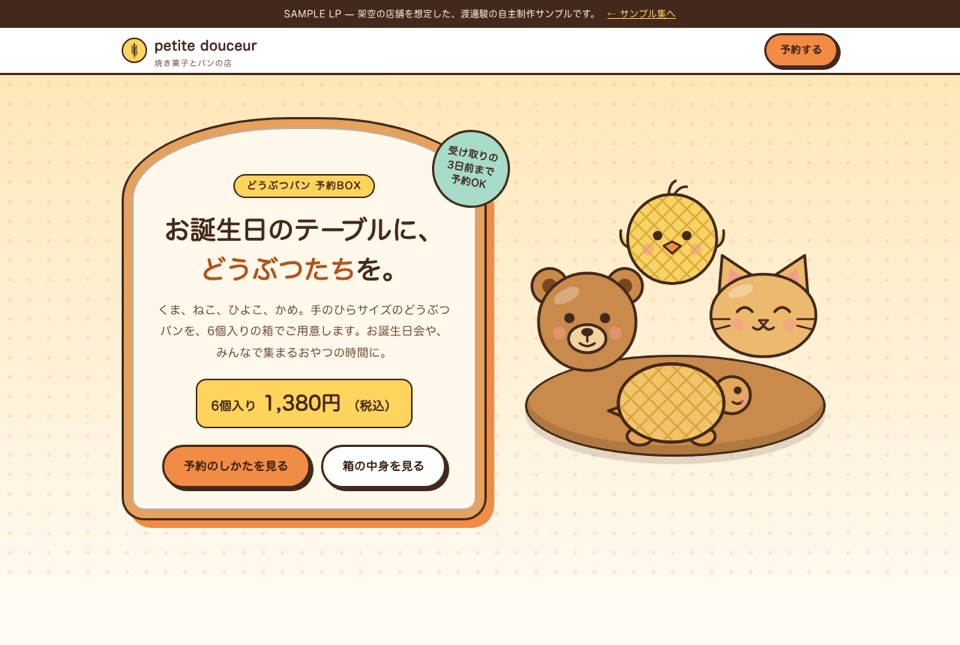
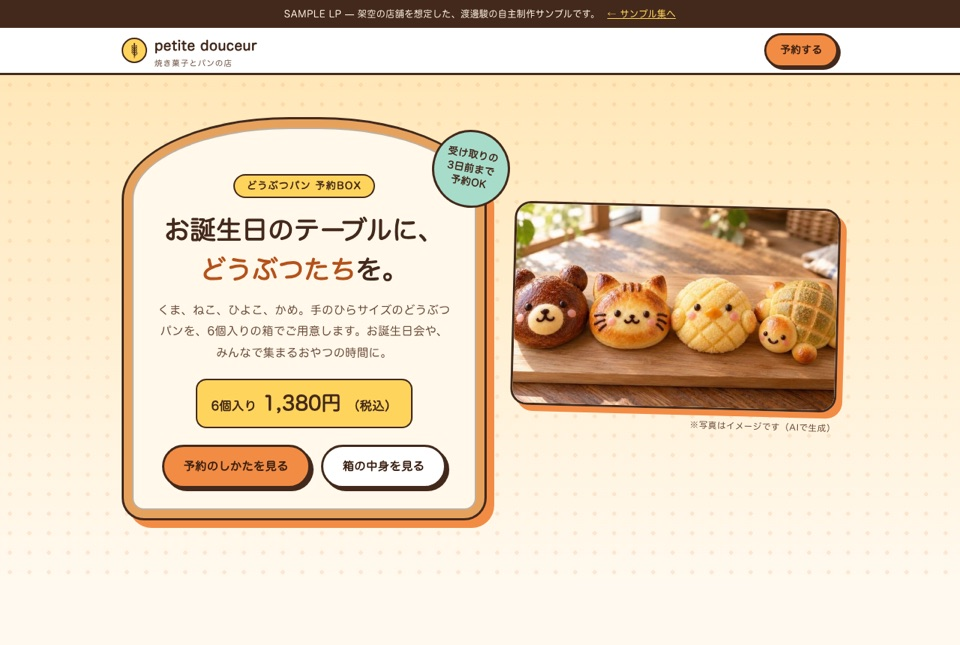
Add files via upload

Changed region(s): [[0.5312, 0.2791, 0.9062, 0.7442]]

diff --git a/samples/bakery.html b/samples/bakery.html
@@ -61,15 +61,11 @@ section.alt::after { bottom: 0; background-image: radial-gradient(circle at 50% 
 .price-chip b { font-size: 26px; letter-spacing: 0.02em; }
 .hero .btn-row { justify-content: center; }
 .sticker { position: absolute; top: 14px; right: -34px; width: 104px; height: 104px; border-radius: 50%; background: var(--mint); border: 3px solid var(--ink); display: grid; place-items: center; text-align: center; font-size: 13px; font-weight: 700; line-height: 1.45; transform: rotate(10deg); }
-.parade { position: relative; aspect-ratio: 1 / 0.92; }
-.parade .plate { position: absolute; left: 4%; right: 4%; bottom: 4%; height: 34%; background: #C98A4B; border: 3px solid var(--ink); border-radius: 50%; box-shadow: inset 0 -12px 0 rgba(0,0,0,.12), 0 10px 0 rgba(67,41,27,.15); }
-.parade svg { position: absolute; width: 46%; animation: hop 3.2s ease-in-out infinite; }
-.parade .a1 { left: 0; top: 26%; }
-.parade .a2 { left: 54%; top: 22%; animation-delay: .4s; }
-.parade .a3 { left: 28%; top: 0; width: 42%; animation-delay: .8s; }
-.parade .a4 { left: 27%; top: 52%; width: 48%; animation-delay: 1.2s; }
-@keyframes hop { 0%, 100% { transform: translateY(0) rotate(0); } 50% { transform: translateY(-8px) rotate(-3deg); } }
-@media (prefers-reduced-motion: reduce) { .parade svg { animation: none; } }
+.hero-photo { margin: 0; transform: rotate(1.5deg); }
+.hero-photo img { width: 100%; aspect-ratio: 16 / 10; object-fit: cover; border: 3px solid var(--ink); border-radius: 22px; box-shadow: 8px 8px 0 var(--accent); }
+.hero-photo figcaption, .box-photo figcaption { font-size: 11.5px; color: var(--ink-soft); text-align: right; margin-top: 10px; }
+.box-photo { margin: 0; }
+.box-photo img { width: 100%; aspect-ratio: 3 / 2; object-fit: cover; border: 3px solid var(--ink); border-radius: 20px; box-shadow: 6px 6px 0 var(--ink); }
 
 /* 悩み */
 .bubbles { display: grid; grid-template-columns: repeat(3, 1fr); gap: 22px; }
@@ -83,14 +79,13 @@ section.alt::after { bottom: 0; background-image: radial-gradient(circle at 50% 
 
 /* 箱の中身 */
 .box-wrap { display: grid; grid-template-columns: 1.15fr 1fr; gap: 40px; align-items: center; }
-.box-art { width: 100%; height: auto; }
 .box-copy h3 { font-size: 22px; line-height: 1.6; margin-bottom: 12px; }
 .box-copy p { color: var(--ink-soft); font-size: 15px; margin-bottom: 12px; }
 .pans { display: grid; grid-template-columns: repeat(4, 1fr); gap: 18px; margin-top: 56px; }
 .pan { background: #fff; border: 3px solid var(--ink); border-radius: 50% 50% 22px 22px / 60px 60px 22px 22px; overflow: hidden; box-shadow: 5px 5px 0 var(--ink); text-align: center; padding-bottom: 18px; }
 .pan-art { background: radial-gradient(circle at 50% 60%, #FFF3D9 0, #FFE2B0 70%); border-bottom: 2px solid var(--ink); padding: 20px 16px 10px; margin-bottom: 14px; }
-.pan-art svg { width: 82%; margin: 0 auto; transition: transform .25s; }
-.pan:hover .pan-art svg { transform: rotate(-6deg) scale(1.04); }
+.pan-art img { width: 82%; aspect-ratio: 1 / 1; border-radius: 50%; object-fit: cover; border: 2px solid var(--ink); background: #fff; margin: 0 auto; transition: transform .25s; }
+.pan:hover .pan-art img { transform: rotate(-6deg) scale(1.04); }
 .pan h3 { font-size: 16px; padding: 0 12px; word-break: keep-all; }
 .pan p { font-size: 13px; color: var(--ink-soft); padding: 4px 14px 0; line-height: 1.75; }
 .note { font-size: 12.5px; color: var(--ink-soft); text-align: center; margin-top: 22px; }
@@ -127,7 +122,8 @@ section.alt::after { bottom: 0; background-image: radial-gradient(circle at 50% 
 /* お客様の声 */
 .voices { display: grid; grid-template-columns: repeat(2, 1fr); gap: 26px; }
 .voice { display: grid; grid-template-columns: 74px 1fr; gap: 16px; align-items: start; }
-.voice .face { width: 74px; height: 74px; border-radius: 50%; background: #FFE2B0; border: 3px solid var(--ink); padding: 6px; }
+.voice .face { width: 74px; height: 74px; border-radius: 50%; background: #fff; border: 3px solid var(--ink); overflow: hidden; }
+.voice .face img { width: 100%; height: 100%; object-fit: cover; }
 .voice .say { background: #fff; border: 3px solid var(--ink); border-radius: 22px; padding: 18px 20px; font-size: 14.5px; box-shadow: 4px 4px 0 var(--ink); }
 .voice .who { display: block; margin-top: 8px; font-size: 12.5px; color: var(--ink-soft); }
 
@@ -170,7 +166,7 @@ footer b { display: block; font-size: 17px; margin-bottom: 6px; color: #fff; }
 
 @media (max-width: 860px) {
   .hero .wrap, .box-wrap, .shop { grid-template-columns: 1fr; }
-  .parade { max-width: 420px; width: 100%; margin: 0 auto; }
+  .hero-photo { max-width: 520px; width: 100%; margin: 0 auto; }
   .pans { grid-template-columns: repeat(2, 1fr); }
   .bubbles, .points, .flow, .voices, .prices { grid-template-columns: 1fr; }
   .bubble:nth-child(2) { transform: none; }
@@ -234,10 +230,10 @@ footer b { display: block; font-size: 17px; margin-bottom: 6px; color: #fff; }
       <a class="btn white" href="#box">箱の中身を見る</a>
     </div>
   </div>
-  <div class="parade" aria-hidden="true">
-    <div class="plate"></div>
-    <svg class="a3" viewBox="0 0 160 140" role="img" aria-label="ひよこの形のメロンパンのイラスト" stroke="#43291B" stroke-width="3" stroke-linecap="round" stroke-linejoin="round"><defs><clipPath id="clip-chick-13"><circle cx="80" cy="82" r="52"/></clipPath></defs><path d="M76 32q0-14 8-18M82 31q6-11 15-10" fill="none"/><path d="M30 92q-12-4-10-20M130 92q12-4 10-20" fill="#F7D364"/><circle cx="80" cy="82" r="52" fill="#F7D364"/><g clip-path="url(#clip-chick-13)" stroke="#D49A2E" stroke-width="2" fill="none" opacity=".75"><path d="M-120 20L10 150M10 20L-120 150"/><path d="M-101 20L29 150M29 20L-101 150"/><path d="M-82 20L48 150M48 20L-82 150"/><path d="M-63 20L67 150M67 20L-63 150"/><path d="M-44 20L86 150M86 20L-44 150"/><path d="M-25 20L105 150M105 20L-25 150"/><path d="M-6 20L124 150M124 20L-6 150"/><path d="M13 20L143 150M143 20L13 150"/><path d="M32 20L162 150M162 20L32 150"/><path d="M51 20L181 150M181 20L51 150"/><path d="M70 20L200 150M200 20L70 150"/><path d="M89 20L219 150M219 20L89 150"/><path d="M108 20L238 150M238 20L108 150"/><path d="M127 20L257 150M257 20L127 150"/><path d="M146 20L276 150M276 20L146 150"/><path d="M165 20L295 150M295 20L165 150"/></g><circle cx="80" cy="82" r="52" fill="none"/><circle cx="63" cy="78" r="5.5" fill="#43291B" stroke="none"/><circle cx="97" cy="78" r="5.5" fill="#43291B" stroke="none"/><path d="M70 90L80 85L90 90L80 99Z" fill="#F28C45" stroke-width="2.5"/><circle cx="52" cy="94" r="7" fill="#F29C8A" opacity=".55" stroke="none"/><circle cx="108" cy="94" r="7" fill="#F29C8A" opacity=".55" stroke="none"/></svg><svg class="a1" viewBox="0 0 160 140" role="img" aria-label="くまの形のパンのイラスト" stroke="#43291B" stroke-width="3" stroke-linecap="round" stroke-linejoin="round"><circle cx="40" cy="42" r="19" fill="#C98A4B"/><circle cx="120" cy="42" r="19" fill="#C98A4B"/><circle cx="40" cy="42" r="8" fill="#7A4520" stroke="none"/><circle cx="120" cy="42" r="8" fill="#7A4520" stroke="none"/><circle cx="80" cy="80" r="52" fill="#C98A4B"/><ellipse cx="58" cy="52" rx="15" ry="7" fill="#fff" opacity=".28" stroke="none" transform="rotate(-28 58 52)"/><circle cx="61" cy="76" r="5.5" fill="#43291B" stroke="none"/><circle cx="99" cy="76" r="5.5" fill="#43291B" stroke="none"/><ellipse cx="80" cy="98" rx="20" ry="15" fill="#F3D3A0"/><ellipse cx="80" cy="91" rx="6.5" ry="4.5" fill="#43291B" stroke="none"/><path d="M80 95v6M72 103q8 6 16 0" fill="none" stroke-width="2.5"/><circle cx="50" cy="92" r="7" fill="#F29C8A" opacity=".55" stroke="none"/><circle cx="110" cy="92" r="7" fill="#F29C8A" opacity=".55" stroke="none"/></svg><svg class="a2" viewBox="0 0 160 140" role="img" aria-label="ねこの形のパンのイラスト" stroke="#43291B" stroke-width="3" stroke-linecap="round" stroke-linejoin="round"><path d="M32 70L36 22L72 46Z" fill="#EDB96F"/><path d="M128 70L124 22L88 46Z" fill="#EDB96F"/><path d="M42 54L44 36L60 47Z" fill="#F29C8A" stroke="none"/><path d="M118 54L116 36L100 47Z" fill="#F29C8A" stroke="none"/><ellipse cx="80" cy="86" rx="56" ry="44" fill="#EDB96F"/><ellipse cx="56" cy="60" rx="14" ry="6" fill="#fff" opacity=".3" stroke="none" transform="rotate(-20 56 60)"/><path d="M52 82q8-9 16 0M92 82q8-9 16 0" fill="none"/><path d="M75 91h10l-5 6z" fill="#E07A6A" stroke-width="2"/><path d="M80 97q-5 7-11 2M80 97q5 7 11 2" fill="none" stroke-width="2.5"/><path d="M26 90h18M28 101l16-4M134 90h-18M132 101l-16-4" stroke-width="2"/><circle cx="52" cy="96" r="7" fill="#F29C8A" opacity=".55" stroke="none"/><circle cx="108" cy="96" r="7" fill="#F29C8A" opacity=".55" stroke="none"/></svg><svg class="a4" viewBox="0 0 160 140" role="img" aria-label="かめの形のメロンパンのイラスト" stroke="#43291B" stroke-width="3" stroke-linecap="round" stroke-linejoin="round"><defs><clipPath id="clip-turtle-14"><ellipse cx="72" cy="80" rx="54" ry="40"/></clipPath></defs><ellipse cx="40" cy="114" rx="13" ry="9" fill="#E3A85A"/><ellipse cx="104" cy="114" rx="13" ry="9" fill="#E3A85A"/><path d="M20 84l-12 4 12 5" fill="#E3A85A"/><circle cx="134" cy="72" r="19" fill="#E3A85A"/><ellipse cx="72" cy="80" rx="54" ry="40" fill="#F2C46B"/><g clip-path="url(#clip-turtle-14)" stroke="#D49A2E" stroke-width="2" fill="none" opacity=".75"><path d="M-120 20L10 150M10 20L-120 150"/><path d="M-101 20L29 150M29 20L-101 150"/><path d="M-82 20L48 150M48 20L-82 150"/><path d="M-63 20L67 150M67 20L-63 150"/><path d="M-44 20L86 150M86 20L-44 150"/><path d="M-25 20L105 150M105 20L-25 150"/><path d="M-6 20L124 150M124 20L-6 150"/><path d="M13 20L143 150M143 20L13 150"/><path d="M32 20L162 150M162 20L32 150"/><path d="M51 20L181 150M181 20L51 150"/><path d="M70 20L200 150M200 20L70 150"/><path d="M89 20L219 150M219 20L89 150"/><path d="M108 20L238 150M238 20L108 150"/><path d="M127 20L257 150M257 20L127 150"/><path d="M146 20L276 150M276 20L146 150"/><path d="M165 20L295 150M295 20L165 150"/></g><ellipse cx="72" cy="80" rx="54" ry="40" fill="none"/><circle cx="140" cy="67" r="4" fill="#43291B" stroke="none"/><path d="M135 79q5 4 10-1" fill="none" stroke-width="2.5"/><circle cx="146" cy="76" r="4.5" fill="#F29C8A" opacity=".55" stroke="none"/></svg>
-  </div>
+  <figure class="hero-photo">
+    <img src="img/pan-four.jpg" srcset="img/pan-four-sm.jpg 700w, img/pan-four.jpg 1400w" sizes="(max-width: 860px) 92vw, 46vw" alt="木の板に並んだ、くま・ねこ・ひよこ・かめの形のパン">
+    <figcaption>※写真はイメージです（AIで生成）</figcaption>
+  </figure>
 </div></section>
 
 <section><div class="wrap">
@@ -253,15 +249,15 @@ footer b { display: block; font-size: 17px; margin-bottom: 6px; color: #fff; }
 <section class="alt" id="box"><div class="wrap">
   <div class="head"><span class="tag">箱の中身</span><h2><span class="nb">ふたを開けたら、</span><span class="nb">まず「どれにする？」から。</span></h2></div>
   <div class="box-wrap">
-    <svg class="box-art" viewBox="0 0 560 360" role="img" aria-label="どうぶつパンが6個入った箱を、上から見たイラスト"><rect x="14" y="26" width="532" height="320" rx="26" fill="#E6B474" stroke="#43291B" stroke-width="4"/><rect x="30" y="42" width="500" height="288" rx="18" fill="#F3D3A0" stroke="#B9844A" stroke-width="2"/><rect x="40" y="52" width="160" height="140" rx="16" fill="#FFF6E2" stroke="#C99A5E" stroke-width="2"/><svg x="45" y="56" width="150" height="131" viewBox="0 0 160 140" role="img" aria-label="くまの形のパンのイラスト" stroke="#43291B" stroke-width="3" stroke-linecap="round" stroke-linejoin="round"><circle cx="40" cy="42" r="19" fill="#C98A4B"/><circle cx="120" cy="42" r="19" fill="#C98A4B"/><circle cx="40" cy="42" r="8" fill="#7A4520" stroke="none"/><circle cx="120" cy="42" r="8" fill="#7A4520" stroke="none"/><circle cx="80" cy="80" r="52" fill="#C98A4B"/><ellipse cx="58" cy="52" rx="15" ry="7" fill="#fff" opacity=".28" stroke="none" transform="rotate(-28 58 52)"/><circle cx="61" cy="76" r="5.5" fill="#43291B" stroke="none"/><circle cx="99" cy="76" r="5.5" fill="#43291B" stroke="none"/><ellipse cx="80" cy="98" rx="20" ry="15" fill="#F3D3A0"/><ellipse cx="80" cy="91" rx="6.5" ry="4.5" fill="#43291B" stroke="none"/><path d="M80 95v6M72 103q8 6 16 0" fill="none" stroke-width="2.5"/><circle cx="50" cy="92" r="7" fill="#F29C8A" opacity=".55" stroke="none"/><circle cx="110" cy="92" r="7" fill="#F29C8A" opacity=".55" stroke="none"/></svg><rect x="200" y="52" width="160" height="140" rx="16" fill="#FFF6E2" stroke="#C99A5E" stroke-width="2"/><svg x="205" y="56" width="150" height="131" viewBox="0 0 160 140" role="img" aria-label="ひよこの形のメロンパンのイラスト" stroke="#43291B" stroke-width="3" stroke-linecap="round" stroke-linejoin="round"><defs><clipPath id="clip-chick-2"><circle cx="80" cy="82" r="52"/></clipPath></defs><path d="M76 32q0-14 8-18M82 31q6-11 15-10" fill="none"/><path d="M30 92q-12-4-10-20M130 92q12-4 10-20" fill="#F7D364"/><circle cx="80" cy="82" r="52" fill="#F7D364"/><g clip-path="url(#clip-chick-2)" stroke="#D49A2E" stroke-width="2" fill="none" opacity=".75"><path d="M-120 20L10 150M10 20L-120 150"/><path d="M-101 20L29 150M29 20L-101 150"/><path d="M-82 20L48 150M48 20L-82 150"/><path d="M-63 20L67 150M67 20L-63 150"/><path d="M-44 20L86 150M86 20L-44 150"/><path d="M-25 20L105 150M105 20L-25 150"/><path d="M-6 20L124 150M124 20L-6 150"/><path d="M13 20L143 150M143 20L13 150"/><path d="M32 20L162 150M162 20L32 150"/><path d="M51 20L181 150M181 20L51 150"/><path d="M70 20L200 150M200 20L70 150"/><path d="M89 20L219 150M219 20L89 150"/><path d="M108 20L238 150M238 20L108 150"/><path d="M127 20L257 150M257 20L127 150"/><path d="M146 20L276 150M276 20L146 150"/><path d="M165 20L295 150M295 20L165 150"/></g><circle cx="80" cy="82" r="52" fill="none"/><circle cx="63" cy="78" r="5.5" fill="#43291B" stroke="none"/><circle cx="97" cy="78" r="5.5" fill="#43291B" stroke="none"/><path d="M70 90L80 85L90 90L80 99Z" fill="#F28C45" stroke-width="2.5"/><circle cx="52" cy="94" r="7" fill="#F29C8A" opacity=".55" stroke="none"/><circle cx="108" cy="94" r="7" fill="#F29C8A" opacity=".55" stroke="none"/></svg><rect x="360" y="52" width="160" height="140" rx="16" fill="#FFF6E2" stroke="#C99A5E" stroke-width="2"/><svg x="365" y="56" width="150" height="131" viewBox="0 0 160 140" role="img" aria-label="ねこの形のパンのイラスト" stroke="#43291B" stroke-width="3" stroke-linecap="round" stroke-linejoin="round"><path d="M32 70L36 22L72 46Z" fill="#EDB96F"/><path d="M128 70L124 22L88 46Z" fill="#EDB96F"/><path d="M42 54L44 36L60 47Z" fill="#F29C8A" stroke="none"/><path d="M118 54L116 36L100 47Z" fill="#F29C8A" stroke="none"/><ellipse cx="80" cy="86" rx="56" ry="44" fill="#EDB96F"/><ellipse cx="56" cy="60" rx="14" ry="6" fill="#fff" opacity=".3" stroke="none" transform="rotate(-20 56 60)"/><path d="M52 82q8-9 16 0M92 82q8-9 16 0" fill="none"/><path d="M75 91h10l-5 6z" fill="#E07A6A" stroke-width="2"/><path d="M80 97q-5 7-11 2M80 97q5 7 11 2" fill="none" stroke-width="2.5"/><path d="M26 90h18M28 101l16-4M134 90h-18M132 101l-16-4" stroke-width="2"/><circle cx="52" cy="96" r="7" fill="#F29C8A" opacity=".55" stroke="none"/><circle cx="108" cy="96" r="7" fill="#F29C8A" opacity=".55" stroke="none"/></svg><rect x="40" y="192" width="160" height="140" rx="16" fill="#FFF6E2" stroke="#C99A5E" stroke-width="2"/><svg x="45" y="196" width="150" height="131" viewBox="0 0 160 140" role="img" aria-label="かめの形のメロンパンのイラスト" stroke="#43291B" stroke-width="3" stroke-linecap="round" stroke-linejoin="round"><defs><clipPath id="clip-turtle-4"><ellipse cx="72" cy="80" rx="54" ry="40"/></clipPath></defs><ellipse cx="40" cy="114" rx="13" ry="9" fill="#E3A85A"/><ellipse cx="104" cy="114" rx="13" ry="9" fill="#E3A85A"/><path d="M20 84l-12 4 12 5" fill="#E3A85A"/><circle cx="134" cy="72" r="19" fill="#E3A85A"/><ellipse cx="72" cy="80" rx="54" ry="40" fill="#F2C46B"/><g clip-path="url(#clip-turtle-4)" stroke="#D49A2E" stroke-width="2" fill="none" opacity=".75"><path d="M-120 20L10 150M10 20L-120 150"/><path d="M-101 20L29 150M29 20L-101 150"/><path d="M-82 20L48 150M48 20L-82 150"/><path d="M-63 20L67 150M67 20L-63 150"/><path d="M-44 20L86 150M86 20L-44 150"/><path d="M-25 20L105 150M105 20L-25 150"/><path d="M-6 20L124 150M124 20L-6 150"/><path d="M13 20L143 150M143 20L13 150"/><path d="M32 20L162 150M162 20L32 150"/><path d="M51 20L181 150M181 20L51 150"/><path d="M70 20L200 150M200 20L70 150"/><path d="M89 20L219 150M219 20L89 150"/><path d="M108 20L238 150M238 20L108 150"/><path d="M127 20L257 150M257 20L127 150"/><path d="M146 20L276 150M276 20L146 150"/><path d="M165 20L295 150M295 20L165 150"/></g><ellipse cx="72" cy="80" rx="54" ry="40" fill="none"/><circle cx="140" cy="67" r="4" fill="#43291B" stroke="none"/><path d="M135 79q5 4 10-1" fill="none" stroke-width="2.5"/><circle cx="146" cy="76" r="4.5" fill="#F29C8A" opacity=".55" stroke="none"/></svg><rect x="200" y="192" width="160" height="140" rx="16" fill="#FFF6E2" stroke="#C99A5E" stroke-width="2"/><svg x="205" y="196" width="150" height="131" viewBox="0 0 160 140" role="img" aria-label="くまの形のパンのイラスト" stroke="#43291B" stroke-width="3" stroke-linecap="round" stroke-linejoin="round"><circle cx="40" cy="42" r="19" fill="#C98A4B"/><circle cx="120" cy="42" r="19" fill="#C98A4B"/><circle cx="40" cy="42" r="8" fill="#7A4520" stroke="none"/><circle cx="120" cy="42" r="8" fill="#7A4520" stroke="none"/><circle cx="80" cy="80" r="52" fill="#C98A4B"/><ellipse cx="58" cy="52" rx="15" ry="7" fill="#fff" opacity=".28" stroke="none" transform="rotate(-28 58 52)"/><circle cx="61" cy="76" r="5.5" fill="#43291B" stroke="none"/><circle cx="99" cy="76" r="5.5" fill="#43291B" stroke="none"/><ellipse cx="80" cy="98" rx="20" ry="15" fill="#F3D3A0"/><ellipse cx="80" cy="91" rx="6.5" ry="4.5" fill="#43291B" stroke="none"/><path d="M80 95v6M72 103q8 6 16 0" fill="none" stroke-width="2.5"/><circle cx="50" cy="92" r="7" fill="#F29C8A" opacity=".55" stroke="none"/><circle cx="110" cy="92" r="7" fill="#F29C8A" opacity=".55" stroke="none"/></svg><rect x="360" y="192" width="160" height="140" rx="16" fill="#FFF6E2" stroke="#C99A5E" stroke-width="2"/><svg x="365" y="196" width="150" height="131" viewBox="0 0 160 140" role="img" aria-label="ひよこの形のメロンパンのイラスト" stroke="#43291B" stroke-width="3" stroke-linecap="round" stroke-linejoin="round"><defs><clipPath id="clip-chick-6"><circle cx="80" cy="82" r="52"/></clipPath></defs><path d="M76 32q0-14 8-18M82 31q6-11 15-10" fill="none"/><path d="M30 92q-12-4-10-20M130 92q12-4 10-20" fill="#F7D364"/><circle cx="80" cy="82" r="52" fill="#F7D364"/><g clip-path="url(#clip-chick-6)" stroke="#D49A2E" stroke-width="2" fill="none" opacity=".75"><path d="M-120 20L10 150M10 20L-120 150"/><path d="M-101 20L29 150M29 20L-101 150"/><path d="M-82 20L48 150M48 20L-82 150"/><path d="M-63 20L67 150M67 20L-63 150"/><path d="M-44 20L86 150M86 20L-44 150"/><path d="M-25 20L105 150M105 20L-25 150"/><path d="M-6 20L124 150M124 20L-6 150"/><path d="M13 20L143 150M143 20L13 150"/><path d="M32 20L162 150M162 20L32 150"/><path d="M51 20L181 150M181 20L51 150"/><path d="M70 20L200 150M200 20L70 150"/><path d="M89 20L219 150M219 20L89 150"/><path d="M108 20L238 150M238 20L108 150"/><path d="M127 20L257 150M257 20L127 150"/><path d="M146 20L276 150M276 20L146 150"/><path d="M165 20L295 150M295 20L165 150"/></g><circle cx="80" cy="82" r="52" fill="none"/><circle cx="63" cy="78" r="5.5" fill="#43291B" stroke="none"/><circle cx="97" cy="78" r="5.5" fill="#43291B" stroke="none"/><path d="M70 90L80 85L90 90L80 99Z" fill="#F28C45" stroke-width="2.5"/><circle cx="52" cy="94" r="7" fill="#F29C8A" opacity=".55" stroke="none"/><circle cx="108" cy="94" r="7" fill="#F29C8A" opacity=".55" stroke="none"/></svg><g transform="translate(400 6) rotate(8)"><rect width="140" height="44" rx="22" fill="#F28C45" stroke="#43291B" stroke-width="3"/><text x="70" y="29" text-anchor="middle" font-size="18" font-weight="700" fill="#3A1F10" font-family="Hiragino Maru Gothic ProN, sans-serif">6個入り</text></g></svg>
+    <figure class="box-photo"><img src="img/pan-box.jpg" alt="どうぶつパンが6個入った、クラフト紙の箱" loading="lazy"></figure>
     <div class="box-copy">
       <h3><span class="nb">4種類から、</span><span class="nb">好きな組み合わせで6個。</span></h3>
       <p>くまを多めに、ひよこを全員分に。集まる子どもたちに合わせて、組み合わせを選べます。</p>
       <p>ひとり1個ずつ手に取れる大きさなので、切り分けもお皿も要りません。決めきれないときは、お店でバランスよく詰めます。</p>
     </div>
   </div>
-  <div class="pans"><div class="pan"><div class="pan-art"><svg viewBox="0 0 160 140" role="img" aria-label="くまの形のパンのイラスト" stroke="#43291B" stroke-width="3" stroke-linecap="round" stroke-linejoin="round"><circle cx="40" cy="42" r="19" fill="#C98A4B"/><circle cx="120" cy="42" r="19" fill="#C98A4B"/><circle cx="40" cy="42" r="8" fill="#7A4520" stroke="none"/><circle cx="120" cy="42" r="8" fill="#7A4520" stroke="none"/><circle cx="80" cy="80" r="52" fill="#C98A4B"/><ellipse cx="58" cy="52" rx="15" ry="7" fill="#fff" opacity=".28" stroke="none" transform="rotate(-28 58 52)"/><circle cx="61" cy="76" r="5.5" fill="#43291B" stroke="none"/><circle cx="99" cy="76" r="5.5" fill="#43291B" stroke="none"/><ellipse cx="80" cy="98" rx="20" ry="15" fill="#F3D3A0"/><ellipse cx="80" cy="91" rx="6.5" ry="4.5" fill="#43291B" stroke="none"/><path d="M80 95v6M72 103q8 6 16 0" fill="none" stroke-width="2.5"/><circle cx="50" cy="92" r="7" fill="#F29C8A" opacity=".55" stroke="none"/><circle cx="110" cy="92" r="7" fill="#F29C8A" opacity=".55" stroke="none"/></svg></div><h3>くまの<wbr>チョコパン</h3><p>ほんのりビターなチョコクリーム。耳はチョコ生地で焼き分けています。</p></div><div class="pan"><div class="pan-art"><svg viewBox="0 0 160 140" role="img" aria-label="ねこの形のパンのイラスト" stroke="#43291B" stroke-width="3" stroke-linecap="round" stroke-linejoin="round"><path d="M32 70L36 22L72 46Z" fill="#EDB96F"/><path d="M128 70L124 22L88 46Z" fill="#EDB96F"/><path d="M42 54L44 36L60 47Z" fill="#F29C8A" stroke="none"/><path d="M118 54L116 36L100 47Z" fill="#F29C8A" stroke="none"/><ellipse cx="80" cy="86" rx="56" ry="44" fill="#EDB96F"/><ellipse cx="56" cy="60" rx="14" ry="6" fill="#fff" opacity=".3" stroke="none" transform="rotate(-20 56 60)"/><path d="M52 82q8-9 16 0M92 82q8-9 16 0" fill="none"/><path d="M75 91h10l-5 6z" fill="#E07A6A" stroke-width="2"/><path d="M80 97q-5 7-11 2M80 97q5 7 11 2" fill="none" stroke-width="2.5"/><path d="M26 90h18M28 101l16-4M134 90h-18M132 101l-16-4" stroke-width="2"/><circle cx="52" cy="96" r="7" fill="#F29C8A" opacity=".55" stroke="none"/><circle cx="108" cy="96" r="7" fill="#F29C8A" opacity=".55" stroke="none"/></svg></div><h3>ねこの<wbr>カスタードパン</h3><p>たまごたっぷりの、自家製カスタード入り。</p></div><div class="pan"><div class="pan-art"><svg viewBox="0 0 160 140" role="img" aria-label="ひよこの形のメロンパンのイラスト" stroke="#43291B" stroke-width="3" stroke-linecap="round" stroke-linejoin="round"><defs><clipPath id="clip-chick-9"><circle cx="80" cy="82" r="52"/></clipPath></defs><path d="M76 32q0-14 8-18M82 31q6-11 15-10" fill="none"/><path d="M30 92q-12-4-10-20M130 92q12-4 10-20" fill="#F7D364"/><circle cx="80" cy="82" r="52" fill="#F7D364"/><g clip-path="url(#clip-chick-9)" stroke="#D49A2E" stroke-width="2" fill="none" opacity=".75"><path d="M-120 20L10 150M10 20L-120 150"/><path d="M-101 20L29 150M29 20L-101 150"/><path d="M-82 20L48 150M48 20L-82 150"/><path d="M-63 20L67 150M67 20L-63 150"/><path d="M-44 20L86 150M86 20L-44 150"/><path d="M-25 20L105 150M105 20L-25 150"/><path d="M-6 20L124 150M124 20L-6 150"/><path d="M13 20L143 150M143 20L13 150"/><path d="M32 20L162 150M162 20L32 150"/><path d="M51 20L181 150M181 20L51 150"/><path d="M70 20L200 150M200 20L70 150"/><path d="M89 20L219 150M219 20L89 150"/><path d="M108 20L238 150M238 20L108 150"/><path d="M127 20L257 150M257 20L127 150"/><path d="M146 20L276 150M276 20L146 150"/><path d="M165 20L295 150M295 20L165 150"/></g><circle cx="80" cy="82" r="52" fill="none"/><circle cx="63" cy="78" r="5.5" fill="#43291B" stroke="none"/><circle cx="97" cy="78" r="5.5" fill="#43291B" stroke="none"/><path d="M70 90L80 85L90 90L80 99Z" fill="#F28C45" stroke-width="2.5"/><circle cx="52" cy="94" r="7" fill="#F29C8A" opacity=".55" stroke="none"/><circle cx="108" cy="94" r="7" fill="#F29C8A" opacity=".55" stroke="none"/></svg></div><h3>ひよこの<wbr>メロンパン</h3><p>さくさくのクッキー生地に、小さなくちばし。</p></div><div class="pan"><div class="pan-art"><svg viewBox="0 0 160 140" role="img" aria-label="かめの形のメロンパンのイラスト" stroke="#43291B" stroke-width="3" stroke-linecap="round" stroke-linejoin="round"><defs><clipPath id="clip-turtle-10"><ellipse cx="72" cy="80" rx="54" ry="40"/></clipPath></defs><ellipse cx="40" cy="114" rx="13" ry="9" fill="#E3A85A"/><ellipse cx="104" cy="114" rx="13" ry="9" fill="#E3A85A"/><path d="M20 84l-12 4 12 5" fill="#E3A85A"/><circle cx="134" cy="72" r="19" fill="#E3A85A"/><ellipse cx="72" cy="80" rx="54" ry="40" fill="#F2C46B"/><g clip-path="url(#clip-turtle-10)" stroke="#D49A2E" stroke-width="2" fill="none" opacity=".75"><path d="M-120 20L10 150M10 20L-120 150"/><path d="M-101 20L29 150M29 20L-101 150"/><path d="M-82 20L48 150M48 20L-82 150"/><path d="M-63 20L67 150M67 20L-63 150"/><path d="M-44 20L86 150M86 20L-44 150"/><path d="M-25 20L105 150M105 20L-25 150"/><path d="M-6 20L124 150M124 20L-6 150"/><path d="M13 20L143 150M143 20L13 150"/><path d="M32 20L162 150M162 20L32 150"/><path d="M51 20L181 150M181 20L51 150"/><path d="M70 20L200 150M200 20L70 150"/><path d="M89 20L219 150M219 20L89 150"/><path d="M108 20L238 150M238 20L108 150"/><path d="M127 20L257 150M257 20L127 150"/><path d="M146 20L276 150M276 20L146 150"/><path d="M165 20L295 150M295 20L165 150"/></g><ellipse cx="72" cy="80" rx="54" ry="40" fill="none"/><circle cx="140" cy="67" r="4" fill="#43291B" stroke="none"/><path d="M135 79q5 4 10-1" fill="none" stroke-width="2.5"/><circle cx="146" cy="76" r="4.5" fill="#F29C8A" opacity=".55" stroke="none"/></svg></div><h3>かめの<wbr>メロンパン</h3><p>甲羅がメロンパン。頭と足は、ふんわりのパン生地です。</p></div></div>
-  <p class="note">※イラストはイメージです。ひとつずつ手で描くため、表情が少しずつ違います。</p>
+  <div class="pans"><div class="pan"><div class="pan-art"><img src="img/pan-bear.jpg" alt="くまのチョコパンの写真" loading="lazy"></div><h3>くまの<wbr>チョコパン</h3><p>ほんのりビターなチョコクリーム。耳はチョコ生地で焼き分けています。</p></div><div class="pan"><div class="pan-art"><img src="img/pan-cat.jpg" alt="ねこのカスタードパンの写真" loading="lazy"></div><h3>ねこの<wbr>カスタードパン</h3><p>たまごたっぷりの、自家製カスタード入り。</p></div><div class="pan"><div class="pan-art"><img src="img/pan-chick.jpg" alt="ひよこのメロンパンの写真" loading="lazy"></div><h3>ひよこの<wbr>メロンパン</h3><p>さくさくのクッキー生地に、小さなくちばし。</p></div><div class="pan"><div class="pan-art"><img src="img/pan-turtle.jpg" alt="かめのメロンパンの写真" loading="lazy"></div><h3>かめの<wbr>メロンパン</h3><p>甲羅がメロンパン。頭と足は、ふんわりのパン生地です。</p></div></div>
+  <p class="note">※写真はイメージです（AIで生成）。ひとつずつ手で描くため、表情が少しずつ違います。</p>
 </div></section>
 
 <div class="cta-strip"><div class="wrap"><p><span class="nb">ご予約は、</span><span class="nb">受け取り日の3日前の17時まで。</span></p><a class="btn white" href="#reserve">予約のしかたを見る</a></div></div>
@@ -296,8 +292,8 @@ footer b { display: block; font-size: 17px; margin-bottom: 6px; color: #fff; }
 <section class="alt"><div class="wrap">
   <div class="head"><span class="tag">お客様の声</span><h2>ご利用いただいた方より</h2></div>
   <div class="voices">
-    <div class="voice"><div class="face"><svg viewBox="0 0 160 140" role="img" aria-label="ねこの形のパンのイラスト" stroke="#43291B" stroke-width="3" stroke-linecap="round" stroke-linejoin="round"><path d="M32 70L36 22L72 46Z" fill="#EDB96F"/><path d="M128 70L124 22L88 46Z" fill="#EDB96F"/><path d="M42 54L44 36L60 47Z" fill="#F29C8A" stroke="none"/><path d="M118 54L116 36L100 47Z" fill="#F29C8A" stroke="none"/><ellipse cx="80" cy="86" rx="56" ry="44" fill="#EDB96F"/><ellipse cx="56" cy="60" rx="14" ry="6" fill="#fff" opacity=".3" stroke="none" transform="rotate(-20 56 60)"/><path d="M52 82q8-9 16 0M92 82q8-9 16 0" fill="none"/><path d="M75 91h10l-5 6z" fill="#E07A6A" stroke-width="2"/><path d="M80 97q-5 7-11 2M80 97q5 7 11 2" fill="none" stroke-width="2.5"/><path d="M26 90h18M28 101l16-4M134 90h-18M132 101l-16-4" stroke-width="2"/><circle cx="52" cy="96" r="7" fill="#F29C8A" opacity=".55" stroke="none"/><circle cx="108" cy="96" r="7" fill="#F29C8A" opacity=".55" stroke="none"/></svg></div><p class="say">娘の4歳の誕生日に頼みました。箱を開けたとたん、子どもたちが「ひよこがいい！」と集まってきて、にぎやかな時間になりました。<span class="who">30代・2児の母</span></p></div>
-    <div class="voice"><div class="face"><svg viewBox="0 0 160 140" role="img" aria-label="くまの形のパンのイラスト" stroke="#43291B" stroke-width="3" stroke-linecap="round" stroke-linejoin="round"><circle cx="40" cy="42" r="19" fill="#C98A4B"/><circle cx="120" cy="42" r="19" fill="#C98A4B"/><circle cx="40" cy="42" r="8" fill="#7A4520" stroke="none"/><circle cx="120" cy="42" r="8" fill="#7A4520" stroke="none"/><circle cx="80" cy="80" r="52" fill="#C98A4B"/><ellipse cx="58" cy="52" rx="15" ry="7" fill="#fff" opacity=".28" stroke="none" transform="rotate(-28 58 52)"/><circle cx="61" cy="76" r="5.5" fill="#43291B" stroke="none"/><circle cx="99" cy="76" r="5.5" fill="#43291B" stroke="none"/><ellipse cx="80" cy="98" rx="20" ry="15" fill="#F3D3A0"/><ellipse cx="80" cy="91" rx="6.5" ry="4.5" fill="#43291B" stroke="none"/><path d="M80 95v6M72 103q8 6 16 0" fill="none" stroke-width="2.5"/><circle cx="50" cy="92" r="7" fill="#F29C8A" opacity=".55" stroke="none"/><circle cx="110" cy="92" r="7" fill="#F29C8A" opacity=".55" stroke="none"/></svg></div><p class="say">保育園の友だちが集まる日に。ひとり1個ずつ配れるので、切り分ける手間がかからず助かりました。<span class="who">30代・会社員</span></p></div>
+    <div class="voice"><div class="face"><img src="img/pan-cat.jpg" alt=""></div><p class="say">娘の4歳の誕生日に頼みました。箱を開けたとたん、子どもたちが「ひよこがいい！」と集まってきて、にぎやかな時間になりました。<span class="who">30代・2児の母</span></p></div>
+    <div class="voice"><div class="face"><img src="img/pan-bear.jpg" alt=""></div><p class="say">保育園の友だちが集まる日に。ひとり1個ずつ配れるので、切り分ける手間がかからず助かりました。<span class="who">30代・会社員</span></p></div>
   </div>
   <p class="note">※お客様の声は、制作サンプル用の架空のものです。</p>
 </div></section>

diff --git a/hp-samples/petite-douceur/index.html b/hp-samples/petite-douceur/index.html
@@ -111,8 +111,8 @@
 
 <section class="alt"><div class="wrap">
   <div class="section-head"><span class="deco" aria-hidden="true"><svg viewBox="0 0 64 64" fill="none" stroke="currentColor" stroke-width="2" stroke-linecap="round" stroke-linejoin="round"><path d="M18 56V32C11 30 10 18 19 15C23 9 41 9 45 15C54 18 53 30 46 32V56Z"/><path d="M22.5 52V29.5C17 28 16.5 21 22 18.8C26 14 38 14 42 18.8C47.5 21 47 28 41.5 29.5V52Z" stroke-width="1.4"/></svg></span><span class="eyebrow">子どもたちに人気</span><h2>どうぶつパン</h2><p>表情は、ひとつずつ手で描いています。毎日10時ごろ焼き上がり、なくなり次第終了です。</p></div>
-  <div class="grid-4"><div class="card animal"><div class="illust"><svg viewBox="0 0 160 140" role="img" aria-label="くまの形のパンのイラスト" stroke="#43291B" stroke-width="3" stroke-linecap="round" stroke-linejoin="round"><circle cx="40" cy="42" r="19" fill="#C98A4B"/><circle cx="120" cy="42" r="19" fill="#C98A4B"/><circle cx="40" cy="42" r="8" fill="#7A4520" stroke="none"/><circle cx="120" cy="42" r="8" fill="#7A4520" stroke="none"/><circle cx="80" cy="80" r="52" fill="#C98A4B"/><ellipse cx="58" cy="52" rx="15" ry="7" fill="#fff" opacity=".28" stroke="none" transform="rotate(-28 58 52)"/><circle cx="61" cy="76" r="5.5" fill="#43291B" stroke="none"/><circle cx="99" cy="76" r="5.5" fill="#43291B" stroke="none"/><ellipse cx="80" cy="98" rx="20" ry="15" fill="#F3D3A0"/><ellipse cx="80" cy="91" rx="6.5" ry="4.5" fill="#43291B" stroke="none"/><path d="M80 95v6M72 103q8 6 16 0" fill="none" stroke-width="2.5"/><circle cx="50" cy="92" r="7" fill="#F29C8A" opacity=".55" stroke="none"/><circle cx="110" cy="92" r="7" fill="#F29C8A" opacity=".55" stroke="none"/></svg></div><div class="card-body"><h3>くまのチョコパン</h3><p>ほんのりビターなチョコクリーム入り。耳はチョコで焼き分けています。</p><span class="price">1個 220円</span></div></div><div class="card animal"><div class="illust"><svg viewBox="0 0 160 140" role="img" aria-label="ねこの形のパンのイラスト" stroke="#43291B" stroke-width="3" stroke-linecap="round" stroke-linejoin="round"><path d="M32 70L36 22L72 46Z" fill="#EDB96F"/><path d="M128 70L124 22L88 46Z" fill="#EDB96F"/><path d="M42 54L44 36L60 47Z" fill="#F29C8A" stroke="none"/><path d="M118 54L116 36L100 47Z" fill="#F29C8A" stroke="none"/><ellipse cx="80" cy="86" rx="56" ry="44" fill="#EDB96F"/><ellipse cx="56" cy="60" rx="14" ry="6" fill="#fff" opacity=".3" stroke="none" transform="rotate(-20 56 60)"/><path d="M52 82q8-9 16 0M92 82q8-9 16 0" fill="none"/><path d="M75 91h10l-5 6z" fill="#E07A6A" stroke-width="2"/><path d="M80 97q-5 7-11 2M80 97q5 7 11 2" fill="none" stroke-width="2.5"/><path d="M26 90h18M28 101l16-4M134 90h-18M132 101l-16-4" stroke-width="2"/><circle cx="52" cy="96" r="7" fill="#F29C8A" opacity=".55" stroke="none"/><circle cx="108" cy="96" r="7" fill="#F29C8A" opacity=".55" stroke="none"/></svg></div><div class="card-body"><h3>ねこのカスタードパン</h3><p>たまごたっぷりの、自家製カスタード入り。</p><span class="price">1個 240円</span></div></div><div class="card animal"><div class="illust"><svg viewBox="0 0 160 140" role="img" aria-label="ひよこの形のメロンパンのイラスト" stroke="#43291B" stroke-width="3" stroke-linecap="round" stroke-linejoin="round"><defs><clipPath id="clip-chick"><circle cx="80" cy="82" r="52"/></clipPath></defs><path d="M76 32q0-14 8-18M82 31q6-11 15-10" fill="none"/><path d="M30 92q-12-4-10-20M130 92q12-4 10-20" fill="#F7D364"/><circle cx="80" cy="82" r="52" fill="#F7D364"/><g clip-path="url(#clip-chick)" stroke="#D49A2E" stroke-width="2" fill="none" opacity=".75"><path d="M-120 20L10 150M10 20L-120 150"/><path d="M-101 20L29 150M29 20L-101 150"/><path d="M-82 20L48 150M48 20L-82 150"/><path d="M-63 20L67 150M67 20L-63 150"/><path d="M-44 20L86 150M86 20L-44 150"/><path d="M-25 20L105 150M105 20L-25 150"/><path d="M-6 20L124 150M124 20L-6 150"/><path d="M13 20L143 150M143 20L13 150"/><path d="M32 20L162 150M162 20L32 150"/><path d="M51 20L181 150M181 20L51 150"/><path d="M70 20L200 150M200 20L70 150"/><path d="M89 20L219 150M219 20L89 150"/><path d="M108 20L238 150M238 20L108 150"/><path d="M127 20L257 150M257 20L127 150"/><path d="M146 20L276 150M276 20L146 150"/><path d="M165 20L295 150M295 20L165 150"/></g><circle cx="80" cy="82" r="52" fill="none"/><circle cx="63" cy="78" r="5.5" fill="#43291B" stroke="none"/><circle cx="97" cy="78" r="5.5" fill="#43291B" stroke="none"/><path d="M70 90L80 85L90 90L80 99Z" fill="#F28C45" stroke-width="2.5"/><circle cx="52" cy="94" r="7" fill="#F29C8A" opacity=".55" stroke="none"/><circle cx="108" cy="94" r="7" fill="#F29C8A" opacity=".55" stroke="none"/></svg></div><div class="card-body"><h3>ひよこのメロンパン</h3><p>さくさくのクッキー生地に、小さなくちばし。いちばんの人気者です。</p><span class="price">1個 200円</span></div></div><div class="card animal"><div class="illust"><svg viewBox="0 0 160 140" role="img" aria-label="かめの形のメロンパンのイラスト" stroke="#43291B" stroke-width="3" stroke-linecap="round" stroke-linejoin="round"><defs><clipPath id="clip-turtle"><ellipse cx="72" cy="80" rx="54" ry="40"/></clipPath></defs><ellipse cx="40" cy="114" rx="13" ry="9" fill="#E3A85A"/><ellipse cx="104" cy="114" rx="13" ry="9" fill="#E3A85A"/><path d="M20 84l-12 4 12 5" fill="#E3A85A"/><circle cx="134" cy="72" r="19" fill="#E3A85A"/><ellipse cx="72" cy="80" rx="54" ry="40" fill="#F2C46B"/><g clip-path="url(#clip-turtle)" stroke="#D49A2E" stroke-width="2" fill="none" opacity=".75"><path d="M-120 20L10 150M10 20L-120 150"/><path d="M-101 20L29 150M29 20L-101 150"/><path d="M-82 20L48 150M48 20L-82 150"/><path d="M-63 20L67 150M67 20L-63 150"/><path d="M-44 20L86 150M86 20L-44 150"/><path d="M-25 20L105 150M105 20L-25 150"/><path d="M-6 20L124 150M124 20L-6 150"/><path d="M13 20L143 150M143 20L13 150"/><path d="M32 20L162 150M162 20L32 150"/><path d="M51 20L181 150M181 20L51 150"/><path d="M70 20L200 150M200 20L70 150"/><path d="M89 20L219 150M219 20L89 150"/><path d="M108 20L238 150M238 20L108 150"/><path d="M127 20L257 150M257 20L127 150"/><path d="M146 20L276 150M276 20L146 150"/><path d="M165 20L295 150M295 20L165 150"/></g><ellipse cx="72" cy="80" rx="54" ry="40" fill="none"/><circle cx="140" cy="67" r="4" fill="#43291B" stroke="none"/><path d="M135 79q5 4 10-1" fill="none" stroke-width="2.5"/><circle cx="146" cy="76" r="4.5" fill="#F29C8A" opacity=".55" stroke="none"/></svg></div><div class="card-body"><h3>かめのメロンパン</h3><p>甲羅の模様がメロンパン。頭と足は、ふんわりのパン生地です。</p><span class="price">1個 260円</span></div></div></div>
-  <p class="note" style="text-align:center;">※イラストはイメージです。日によって表情が少しずつ違います。</p>
+  <div class="grid-4"><div class="card animal"><div class="illust"><img src="img/pan-bear.jpg" alt="くまのチョコパンの写真" loading="lazy"></div><div class="card-body"><h3>くまのチョコパン</h3><p>ほんのりビターなチョコクリーム入り。耳はチョコで焼き分けています。</p><span class="price">1個 220円</span></div></div><div class="card animal"><div class="illust"><img src="img/pan-cat.jpg" alt="ねこのカスタードパンの写真" loading="lazy"></div><div class="card-body"><h3>ねこのカスタードパン</h3><p>たまごたっぷりの、自家製カスタード入り。</p><span class="price">1個 240円</span></div></div><div class="card animal"><div class="illust"><img src="img/pan-chick.jpg" alt="ひよこのメロンパンの写真" loading="lazy"></div><div class="card-body"><h3>ひよこのメロンパン</h3><p>さくさくのクッキー生地に、小さなくちばし。いちばんの人気者です。</p><span class="price">1個 200円</span></div></div><div class="card animal"><div class="illust"><img src="img/pan-turtle.jpg" alt="かめのメロンパンの写真" loading="lazy"></div><div class="card-body"><h3>かめのメロンパン</h3><p>甲羅の模様がメロンパン。頭と足は、ふんわりのパン生地です。</p><span class="price">1個 260円</span></div></div></div>
+  <p class="note" style="text-align:center;">※写真はイメージです（AIで生成）。ひとつずつ手で描くため、日によって表情が少しずつ違います。</p>
 </div></section>
 
 <section class="photo-band">

diff --git a/hp-samples/petite-douceur/menu.html b/hp-samples/petite-douceur/menu.html
@@ -56,8 +56,8 @@
 
 <section><div class="wrap">
   <div class="section-head"><span class="deco" aria-hidden="true"><svg viewBox="0 0 64 64" fill="none" stroke="currentColor" stroke-width="2" stroke-linecap="round" stroke-linejoin="round"><path d="M18 56V32C11 30 10 18 19 15C23 9 41 9 45 15C54 18 53 30 46 32V56Z"/><path d="M22.5 52V29.5C17 28 16.5 21 22 18.8C26 14 38 14 42 18.8C47.5 21 47 28 41.5 29.5V52Z" stroke-width="1.4"/></svg></span><span class="eyebrow">子どもたちに人気</span><h2>どうぶつパン</h2><p>表情は、ひとつずつ手で描いています。毎日10時ごろ焼き上がり、なくなり次第終了です。</p></div>
-  <div class="grid-4"><div class="card animal"><div class="illust"><svg viewBox="0 0 160 140" role="img" aria-label="くまの形のパンのイラスト" stroke="#43291B" stroke-width="3" stroke-linecap="round" stroke-linejoin="round"><circle cx="40" cy="42" r="19" fill="#C98A4B"/><circle cx="120" cy="42" r="19" fill="#C98A4B"/><circle cx="40" cy="42" r="8" fill="#7A4520" stroke="none"/><circle cx="120" cy="42" r="8" fill="#7A4520" stroke="none"/><circle cx="80" cy="80" r="52" fill="#C98A4B"/><ellipse cx="58" cy="52" rx="15" ry="7" fill="#fff" opacity=".28" stroke="none" transform="rotate(-28 58 52)"/><circle cx="61" cy="76" r="5.5" fill="#43291B" stroke="none"/><circle cx="99" cy="76" r="5.5" fill="#43291B" stroke="none"/><ellipse cx="80" cy="98" rx="20" ry="15" fill="#F3D3A0"/><ellipse cx="80" cy="91" rx="6.5" ry="4.5" fill="#43291B" stroke="none"/><path d="M80 95v6M72 103q8 6 16 0" fill="none" stroke-width="2.5"/><circle cx="50" cy="92" r="7" fill="#F29C8A" opacity=".55" stroke="none"/><circle cx="110" cy="92" r="7" fill="#F29C8A" opacity=".55" stroke="none"/></svg></div><div class="card-body"><h3>くまのチョコパン</h3><p>ほんのりビターなチョコクリーム入り。耳はチョコで焼き分けています。</p><span class="price">1個 220円</span></div></div><div class="card animal"><div class="illust"><svg viewBox="0 0 160 140" role="img" aria-label="ねこの形のパンのイラスト" stroke="#43291B" stroke-width="3" stroke-linecap="round" stroke-linejoin="round"><path d="M32 70L36 22L72 46Z" fill="#EDB96F"/><path d="M128 70L124 22L88 46Z" fill="#EDB96F"/><path d="M42 54L44 36L60 47Z" fill="#F29C8A" stroke="none"/><path d="M118 54L116 36L100 47Z" fill="#F29C8A" stroke="none"/><ellipse cx="80" cy="86" rx="56" ry="44" fill="#EDB96F"/><ellipse cx="56" cy="60" rx="14" ry="6" fill="#fff" opacity=".3" stroke="none" transform="rotate(-20 56 60)"/><path d="M52 82q8-9 16 0M92 82q8-9 16 0" fill="none"/><path d="M75 91h10l-5 6z" fill="#E07A6A" stroke-width="2"/><path d="M80 97q-5 7-11 2M80 97q5 7 11 2" fill="none" stroke-width="2.5"/><path d="M26 90h18M28 101l16-4M134 90h-18M132 101l-16-4" stroke-width="2"/><circle cx="52" cy="96" r="7" fill="#F29C8A" opacity=".55" stroke="none"/><circle cx="108" cy="96" r="7" fill="#F29C8A" opacity=".55" stroke="none"/></svg></div><div class="card-body"><h3>ねこのカスタードパン</h3><p>たまごたっぷりの、自家製カスタード入り。</p><span class="price">1個 240円</span></div></div><div class="card animal"><div class="illust"><svg viewBox="0 0 160 140" role="img" aria-label="ひよこの形のメロンパンのイラスト" stroke="#43291B" stroke-width="3" stroke-linecap="round" stroke-linejoin="round"><defs><clipPath id="clip-chick"><circle cx="80" cy="82" r="52"/></clipPath></defs><path d="M76 32q0-14 8-18M82 31q6-11 15-10" fill="none"/><path d="M30 92q-12-4-10-20M130 92q12-4 10-20" fill="#F7D364"/><circle cx="80" cy="82" r="52" fill="#F7D364"/><g clip-path="url(#clip-chick)" stroke="#D49A2E" stroke-width="2" fill="none" opacity=".75"><path d="M-120 20L10 150M10 20L-120 150"/><path d="M-101 20L29 150M29 20L-101 150"/><path d="M-82 20L48 150M48 20L-82 150"/><path d="M-63 20L67 150M67 20L-63 150"/><path d="M-44 20L86 150M86 20L-44 150"/><path d="M-25 20L105 150M105 20L-25 150"/><path d="M-6 20L124 150M124 20L-6 150"/><path d="M13 20L143 150M143 20L13 150"/><path d="M32 20L162 150M162 20L32 150"/><path d="M51 20L181 150M181 20L51 150"/><path d="M70 20L200 150M200 20L70 150"/><path d="M89 20L219 150M219 20L89 150"/><path d="M108 20L238 150M238 20L108 150"/><path d="M127 20L257 150M257 20L127 150"/><path d="M146 20L276 150M276 20L146 150"/><path d="M165 20L295 150M295 20L165 150"/></g><circle cx="80" cy="82" r="52" fill="none"/><circle cx="63" cy="78" r="5.5" fill="#43291B" stroke="none"/><circle cx="97" cy="78" r="5.5" fill="#43291B" stroke="none"/><path d="M70 90L80 85L90 90L80 99Z" fill="#F28C45" stroke-width="2.5"/><circle cx="52" cy="94" r="7" fill="#F29C8A" opacity=".55" stroke="none"/><circle cx="108" cy="94" r="7" fill="#F29C8A" opacity=".55" stroke="none"/></svg></div><div class="card-body"><h3>ひよこのメロンパン</h3><p>さくさくのクッキー生地に、小さなくちばし。いちばんの人気者です。</p><span class="price">1個 200円</span></div></div><div class="card animal"><div class="illust"><svg viewBox="0 0 160 140" role="img" aria-label="かめの形のメロンパンのイラスト" stroke="#43291B" stroke-width="3" stroke-linecap="round" stroke-linejoin="round"><defs><clipPath id="clip-turtle"><ellipse cx="72" cy="80" rx="54" ry="40"/></clipPath></defs><ellipse cx="40" cy="114" rx="13" ry="9" fill="#E3A85A"/><ellipse cx="104" cy="114" rx="13" ry="9" fill="#E3A85A"/><path d="M20 84l-12 4 12 5" fill="#E3A85A"/><circle cx="134" cy="72" r="19" fill="#E3A85A"/><ellipse cx="72" cy="80" rx="54" ry="40" fill="#F2C46B"/><g clip-path="url(#clip-turtle)" stroke="#D49A2E" stroke-width="2" fill="none" opacity=".75"><path d="M-120 20L10 150M10 20L-120 150"/><path d="M-101 20L29 150M29 20L-101 150"/><path d="M-82 20L48 150M48 20L-82 150"/><path d="M-63 20L67 150M67 20L-63 150"/><path d="M-44 20L86 150M86 20L-44 150"/><path d="M-25 20L105 150M105 20L-25 150"/><path d="M-6 20L124 150M124 20L-6 150"/><path d="M13 20L143 150M143 20L13 150"/><path d="M32 20L162 150M162 20L32 150"/><path d="M51 20L181 150M181 20L51 150"/><path d="M70 20L200 150M200 20L70 150"/><path d="M89 20L219 150M219 20L89 150"/><path d="M108 20L238 150M238 20L108 150"/><path d="M127 20L257 150M257 20L127 150"/><path d="M146 20L276 150M276 20L146 150"/><path d="M165 20L295 150M295 20L165 150"/></g><ellipse cx="72" cy="80" rx="54" ry="40" fill="none"/><circle cx="140" cy="67" r="4" fill="#43291B" stroke="none"/><path d="M135 79q5 4 10-1" fill="none" stroke-width="2.5"/><circle cx="146" cy="76" r="4.5" fill="#F29C8A" opacity=".55" stroke="none"/></svg></div><div class="card-body"><h3>かめのメロンパン</h3><p>甲羅の模様がメロンパン。頭と足は、ふんわりのパン生地です。</p><span class="price">1個 260円</span></div></div></div>
-  <p class="note" style="text-align:center;">※イラストはイメージです。日によって表情が少しずつ違います。</p>
+  <div class="grid-4"><div class="card animal"><div class="illust"><img src="img/pan-bear.jpg" alt="くまのチョコパンの写真" loading="lazy"></div><div class="card-body"><h3>くまのチョコパン</h3><p>ほんのりビターなチョコクリーム入り。耳はチョコで焼き分けています。</p><span class="price">1個 220円</span></div></div><div class="card animal"><div class="illust"><img src="img/pan-cat.jpg" alt="ねこのカスタードパンの写真" loading="lazy"></div><div class="card-body"><h3>ねこのカスタードパン</h3><p>たまごたっぷりの、自家製カスタード入り。</p><span class="price">1個 240円</span></div></div><div class="card animal"><div class="illust"><img src="img/pan-chick.jpg" alt="ひよこのメロンパンの写真" loading="lazy"></div><div class="card-body"><h3>ひよこのメロンパン</h3><p>さくさくのクッキー生地に、小さなくちばし。いちばんの人気者です。</p><span class="price">1個 200円</span></div></div><div class="card animal"><div class="illust"><img src="img/pan-turtle.jpg" alt="かめのメロンパンの写真" loading="lazy"></div><div class="card-body"><h3>かめのメロンパン</h3><p>甲羅の模様がメロンパン。頭と足は、ふんわりのパン生地です。</p><span class="price">1個 260円</span></div></div></div>
+  <p class="note" style="text-align:center;">※写真はイメージです（AIで生成）。ひとつずつ手で描くため、日によって表情が少しずつ違います。</p>
 </div></section>
 
 <section class="alt"><div class="wrap">

diff --git a/case-bakery.html b/case-bakery.html
@@ -147,7 +147,7 @@
       <figure><img src="case/after-hero.jpg" alt="作り直した後のトップ画面。囲みが山型の食パンの形になっている" loading="lazy"><figcaption><b>後</b>　囲みを山型の食パンの形に。写真を明るく、温かい色味にそろえました。</figcaption></figure>
     </div>
     <div class="case-figs">
-      <figure><img src="case/after-animal.jpg" alt="くま・ねこ・ひよこ・かめの形のパンのイラストが並ぶ欄" loading="lazy"><figcaption><b>どうぶつパンを追加</b>　写真がないため、イラストで描きました。「イラストはイメージです」と書き添えています。</figcaption></figure>
+      <figure><img src="case/after-animal.jpg" alt="くま・ねこ・ひよこ・かめの形のパンのイラストが並ぶ欄" loading="lazy"><figcaption><b>どうぶつパンを追加</b>　最初はイラストで描きました。その後、画像生成AIで作った写真に差し替え、「写真はイメージです（AIで生成）」と書き添えています。</figcaption></figure>
       <figure><img src="case/after-oven.jpg" alt="れんがのかまどの形をした、ご予約の案内の囲み" loading="lazy"><figcaption><b>かまどの形の案内</b>　ご予約の案内を、れんがのかまどに。窯の口が温かく光るようにしました。</figcaption></figure>
     </div>
     <div class="case-figs">

diff --git a/hp-samples/petite-douceur/style.css b/hp-samples/petite-douceur/style.css
@@ -265,8 +265,8 @@ section.alt::after { bottom: 0; background-image: radial-gradient(circle at 50% 
 .card { border-radius: 90px 90px 22px 22px / 46px 46px 22px 22px; border-width: 3px; }
 .card.animal { border-radius: 50% 50% 22px 22px / 60px 60px 22px 22px; }
 .card .illust { background: radial-gradient(circle at 50% 60%, #FFF3D9 0, #FFE2B0 70%); border-bottom: 2px solid var(--ink); padding: 22px 18px 12px; display: flex; justify-content: center; }
-.card .illust svg { width: 86%; max-width: 190px; height: auto; transition: transform 0.25s; }
-.card.animal:hover .illust svg { transform: rotate(-6deg) scale(1.04); }
+.card .illust img { width: 86%; max-width: 190px; aspect-ratio: 1 / 1; height: auto; border-radius: 50%; object-fit: cover; border: 2px solid var(--ink); background: #fff; transition: transform 0.25s; }
+.card.animal:hover .illust img { transform: rotate(-6deg) scale(1.04); }
 .grid-4 { display: grid; grid-template-columns: repeat(4, 1fr); gap: 20px; }
 
 /* お知らせ：お店の前の黒板 */
